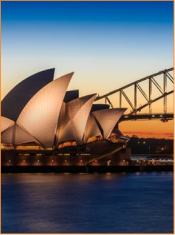
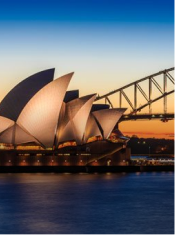
location image change for sydney(had border) and fixed gradient overlay on helpers

Changed region(s): [[0.0, 0.0, 1.0, 1.0]]

diff --git a/src/styles/base/_helpers.scss b/src/styles/base/_helpers.scss
@@ -112,15 +112,17 @@
     }
   }
   &:before{
-      content: '';
-      display: block;
-      position: absolute;
-      bottom: 0;
-      height: 0;
-      width: 100%;
-      background-color: rgba(0,0,0,.2);
-      z-index: 1;
-      transition: height 0.25s ease-in;
+    content: '';
+    display: block;
+    position: absolute;
+    bottom: 0;
+    height: 100%;
+    width: 100%;
+    background: linear-gradient(360deg, rgba(0, 0, 0, 0.6) 8.49%, rgba(0, 0, 0, 0) 38.99%);
+    z-index: 1;
+    -webkit-transition: height .25s ease-in;
+    transition: height .25s ease-in;
+
   }
   &:after {
       content: '';
